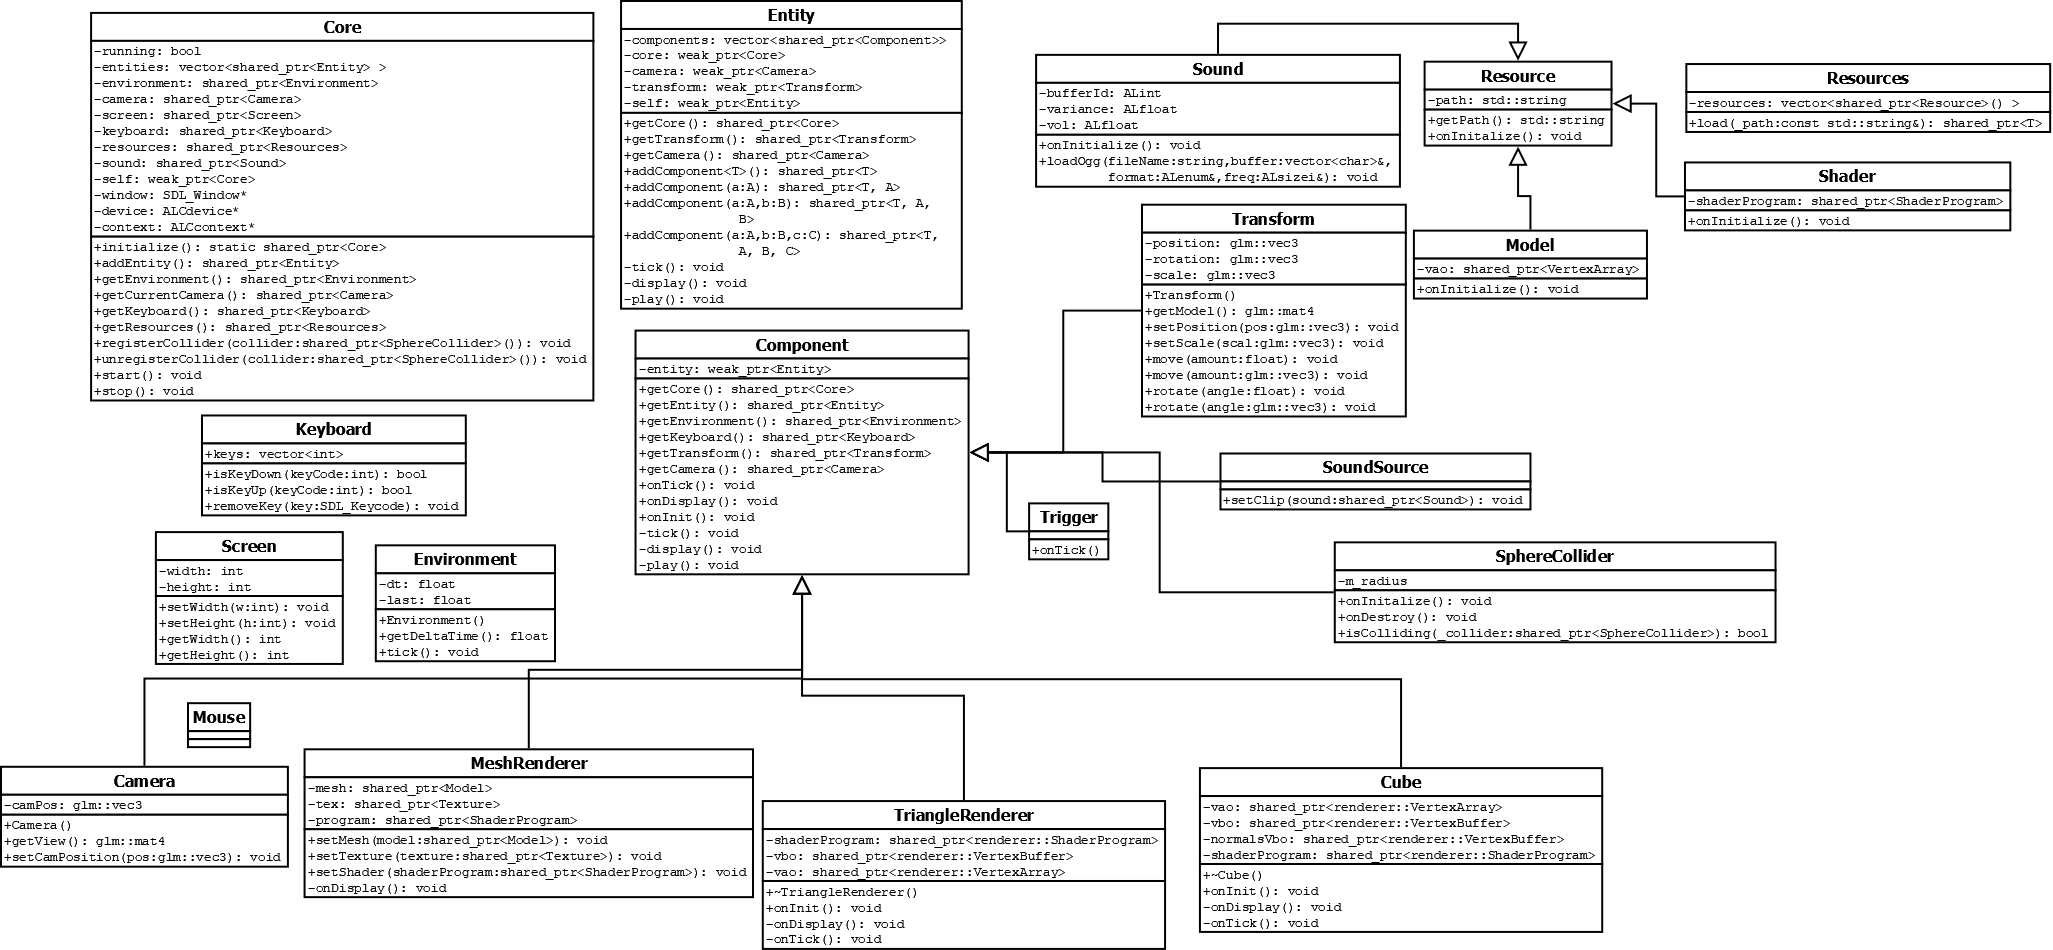
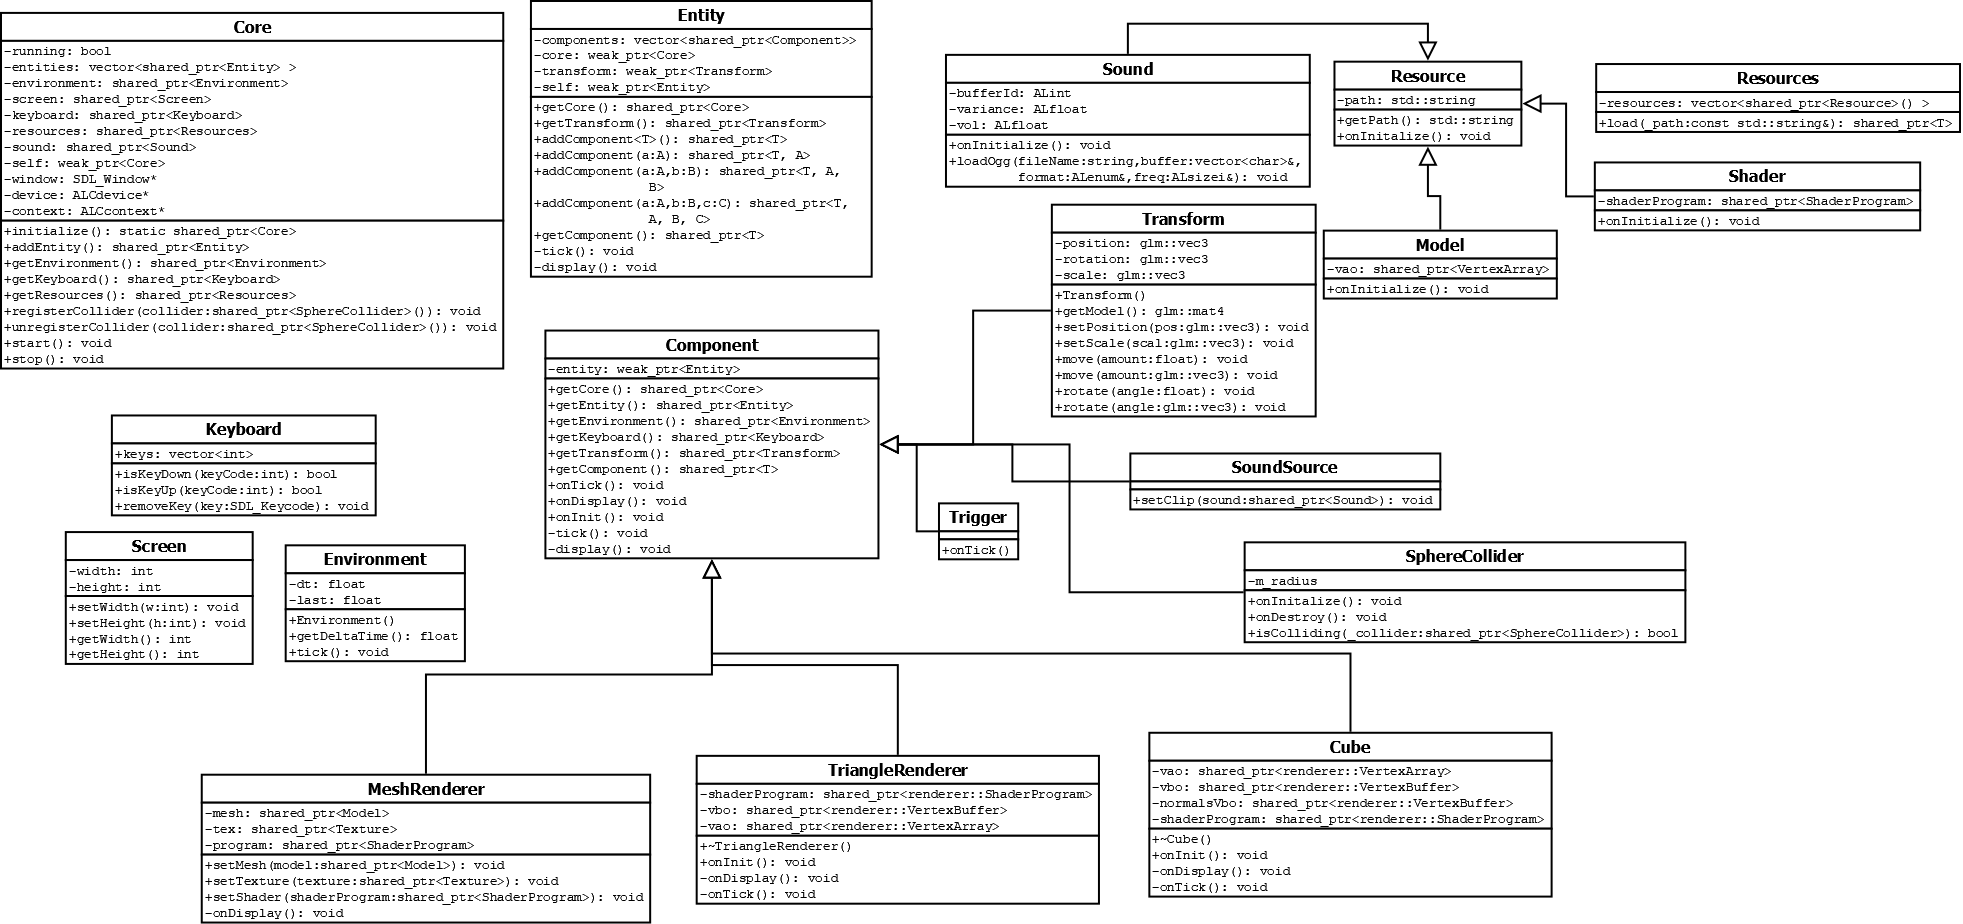
changes made

Changed region(s): [[0.0, 0.0, 1.0, 1.0]]

diff --git a/src/myengine/Transform.cpp b/src/myengine/Transform.cpp
@@ -4,33 +4,33 @@ namespace myengine
 {
 	Transform::Transform()
 	{
-		position = glm::vec3(0, 0, 0);
-		rotation = glm::vec3(0, 0, 0);
-		scale = glm::vec3(1, 1, 1);
+		position = vec3(0, 0, 0);
+		rotation = vec3(0, 0, 0);
+		scale = vec3(1, 1, 1);
 	}
 
-	glm::mat4 Transform::getModel()
+	mat4 Transform::getModel()
 	{
 		/// Returns the model identity matrix
 
 		glm::mat4 model(1.0f);
 		model = glm::translate(model, position);
-		model = glm::rotate(model, glm::radians(rotation.y), glm::vec3(0, 1, 0));
-		model = glm::rotate(model, glm::radians(rotation.x), glm::vec3(1, 0, 0));
-		model = glm::rotate(model, glm::radians(rotation.z), glm::vec3(0, 0, 1));
+		model = glm::rotate(model, radians(rotation.y), vec3(0, 1, 0));
+		model = glm::rotate(model, radians(rotation.x), vec3(1, 0, 0));
+		model = glm::rotate(model, radians(rotation.z), vec3(0, 0, 1));
 		model = glm::scale(model, scale);
 
 		return model;
 	}
 
-	void Transform::setPosition(glm::vec3 pos)
+	void Transform::setPosition(vec3 pos)
 	{
 		/// Sets the position for the model/triangle
 
 		position = pos;
 	}
 
-	void Transform::setScale(glm::vec3 scal)
+	void Transform::setScale(vec3 scal)
 	{
 		/// Sets the position for the model/triangle
 
@@ -41,11 +41,11 @@ namespace myengine
 	{
 		/// Moves the position of the model/triangle using a float value
 
-		glm::mat4 model(1.0f);
-		model = glm::rotate(model, glm::radians(rotation.y), glm::vec3(0, 1, 0));
-		model = glm::rotate(model, glm::radians(rotation.x), glm::vec3(1, 0, 0));
-		model = glm::rotate(model, glm::radians(rotation.z), glm::vec3(0, 0, 1));
-		glm::vec3 fwd = glm::vec3(model * glm::vec4(0,0,1,1));
+		mat4 model(1.0f);
+		model = glm::rotate(model, glm::radians(rotation.y), vec3(0, 1, 0));
+		model = glm::rotate(model, glm::radians(rotation.x), vec3(1, 0, 0));
+		model = glm::rotate(model, glm::radians(rotation.z), vec3(0, 0, 1));
+		glm::vec3 fwd = glm::vec3(model * vec4(0,0,1,1));
 		position += fwd * amount;
 	}
 
@@ -53,11 +53,11 @@ namespace myengine
 	{
 		/// Moves the position of the model/triangle using a glm::vec3 value
 
-		glm::mat4 model(1.0f);
-		model = glm::rotate(model, glm::radians(rotation.y), glm::vec3(0, 1, 0));
-		model = glm::rotate(model, glm::radians(rotation.x), glm::vec3(1, 0, 0));
-		model = glm::rotate(model, glm::radians(rotation.z), glm::vec3(0, 0, 1));
-		glm::vec3 fwd = glm::vec3(model * glm::vec4(amount, 1));
+		mat4 model(1.0f);
+		model = glm::rotate(model, glm::radians(rotation.y), vec3(0, 1, 0));
+		model = glm::rotate(model, glm::radians(rotation.x), vec3(1, 0, 0));
+		model = glm::rotate(model, glm::radians(rotation.z), vec3(0, 0, 1));
+		vec3 fwd = vec3(model * glm::vec4(amount, 1));
 		position += fwd;
 	}
 
@@ -68,7 +68,7 @@ namespace myengine
 		rotation.y += angle;
 	}
 
-	void Transform::rotate(glm::vec3 angle)
+	void Transform::rotate(vec3 angle)
 	{
 		/// Sets the rotation for the model/triangle using a glm::vec3 value
 

diff --git a/src/myengine/Entity.h b/src/myengine/Entity.h
@@ -54,13 +54,39 @@ namespace myengine
 			template <typename T, typename A, typename B>
 			std::shared_ptr<T> addComponent(A a, B b)
 			{
-				/// Adds a component to an entity and assigns two parameter to it
+				/// Adds a component to an entity and assigns a parameter to it
+
+				// Creates a shared pointer for the component
+				std::shared_ptr<T> component = std::make_shared<T>(a, b);
+
+				// It will then assign the shared pointer to a weak pointer
+				component->entity = self;
+
+				// Adds the shared pointer to the component vector
+				components.push_back(component);
+				component->onInit();
+
+				// It then returns the shared pointer 
+				return component;
 			}
 
 			template <typename T, typename A, typename B, typename C>
 			std::shared_ptr<T> addComponent(A a, B b, C c)
 			{
-				/// Adds a component to an entity and assigns three parameter to it
+				/// Adds a component to an entity and assigns a parameter to it
+
+				// Creates a shared pointer for the component
+				std::shared_ptr<T> component = std::make_shared<T>(a, b, c);
+
+				// It will then assign the shared pointer to a weak pointer
+				component->entity = self;
+
+				// Adds the shared pointer to the component vector
+				components.push_back(component);
+				component->onInit();
+
+				// It then returns the shared pointer 
+				return component;
 			}
 
 			template <typename T>
@@ -73,13 +99,11 @@ namespace myengine
 
 			std::shared_ptr<Core> getCore();
 			std::shared_ptr<Transform> getTransform();
-			std::shared_ptr<Camera> getCamera();
 		private:
 			friend struct myengine::Core;
 			std::vector<std::shared_ptr<Component>> components;
 			std::weak_ptr<Core> core;
 			std::weak_ptr<Transform> transform;
-			std::weak_ptr<Camera> view;
 			std::weak_ptr<Entity> self;
 			void tick();
 			void display();

diff --git a/src/myengine/PBR_Model.cpp b/src/myengine/PBR_Model.cpp
@@ -2,7 +2,7 @@
 #include "Transform.h"
 #include "Keyboard.h"
 #include "Environment.h"
-#include "Camera.h"
+#include "Math.h"
 #include "Math.h"
 
 namespace myengine
@@ -26,17 +26,17 @@ namespace myengine
 
 		// Makes the vao a shared pointer
 
-		//vao = std::make_shared<renderer::VertexArray>("../Assets/Models/teapot/teapot3.obj");
-		vao = std::make_shared<renderer::VertexArray>("../Assets/Models/monkey/monkey.obj");
-		//vao = std::make_shared<renderer::VertexArray>("../Assets/Models/Sphere/Sphere.obj");
-		//vao = std::make_shared<renderer::VertexArray>("../Assets/Models/curuthers/curuthers.obj");
+		//vao = std::make_shared<renderer::VertexArray>("Assets/Models/teapot/teapot3.obj");
+		vao = std::make_shared<renderer::VertexArray>("Assets/Models/monkey/monkey.obj");
+		//vao = std::make_shared<renderer::VertexArray>("Assets/Models/Sphere/Sphere.obj");
+		//vao = std::make_shared<renderer::VertexArray>("Assets/Models/curuthers/curuthers.obj");
 
 		// Gets vao id
 		vao->getId();
 
 		// Makes the shader program a shared pointer
-		shaderProgram = std::make_shared<renderer::ShaderProgram>("../Assets/Shaders/pbrVertShader_LearnOpenGL.txt", "../Assets/Shaders/pbrFragShader_LearnOpenGL.txt");
-		//shaderProgram = std::make_shared<renderer::ShaderProgram>("../Assets/Shaders/pbrVertShader_CodingLabs.txt", "../Assets/Shaders/pbrFragShader_CodingLabs.txt");
+		shaderProgram = std::make_shared<renderer::ShaderProgram>("Assets/Shaders/pbrVertShader_LearnOpenGL.txt", "Assets/Shaders/pbrFragShader_LearnOpenGL.txt");
+		//shaderProgram = std::make_shared<renderer::ShaderProgram>("Assets/Shaders/pbrVertShader_CodingLabs.txt", "Assets/Shaders/pbrFragShader_CodingLabs.txt");
 
 		// Sets the position for the model
 

diff --git a/src/game/main.cpp b/src/game/main.cpp
@@ -30,7 +30,7 @@ int main()
    // Adds new entity along with the player component
    std::shared_ptr<Entity> pe = core->addEntity();
    std::shared_ptr<Player> pc = pe->addComponent<Player>();
-
+   
    // Adds new entity along with the enemy component
    std::shared_ptr<Entity> ee = core->addEntity();
    std::shared_ptr<Enemy> ec = ee->addComponent<Enemy>();
@@ -46,10 +46,6 @@ int main()
    //mr->setTexture(core->getResources()->load<Texture>("Assets/Textures/Material.png"));
    mr->setShader(core->getResources()->load<Shader>("Assets/Shaders/pbrShader_LearnOpenGL"));
    mr->getTransform()->setPosition(vec3(0, 0, -10));
-
-   //std::shared_ptr<Cube> cube = entity2->addComponent<Cube>();
-   //std::shared_ptr<Cube> cube1 = entity3->addComponent<Cube>();
-   //entity3->getTransform()->setPosition(vec3(-2.5f, 0.0f, -10.0f));
 
    std::cout << entity->getCore() << std::endl;
    //std::cout << component->getCore() << std::endl;

diff --git a/src/myengine/Transform.h b/src/myengine/Transform.h
@@ -1,4 +1,5 @@
 #include "Component.h"
+#include "Math.h"
 
 #include <glm/glm.hpp>
 #include <glm/ext.hpp>
@@ -9,16 +10,16 @@ namespace myengine
 	{
 		public:
 			Transform();
-			glm::mat4 getModel();
-			void setPosition(glm::vec3 pos);
-			void setScale(glm::vec3 scal);
+			mat4 getModel();
+			void setPosition(vec3 pos);
+			void setScale(vec3 scal);
 			void move(float amount);
-			void move(glm::vec3 amount);
+			void move(vec3 amount);
 			void rotate(float angle);
-			void rotate(glm::vec3 angle);
+			void rotate(vec3 angle);
 		private:
-			glm::vec3 position;
-			glm::vec3 rotation;
-			glm::vec3 scale;
+			vec3 position;
+			vec3 rotation;
+			vec3 scale;
 	};
 }

diff --git a/src/myengine/Core.h b/src/myengine/Core.h
@@ -22,7 +22,6 @@ namespace myengine
 		static std::shared_ptr<Core> initialize();
 		std::shared_ptr<Entity> addEntity();
 		std::shared_ptr<Environment> getEnvironment();
-		std::shared_ptr<Camera> getCurrentCamera();
 		std::shared_ptr<Keyboard> getKeyboard();
 		std::shared_ptr<Resources> getResources();
 		void registerCollider(std::shared_ptr<SphereCollider>());
@@ -33,7 +32,6 @@ namespace myengine
 		bool running;
 		std::vector<std::shared_ptr<Entity> > entities;
 		std::shared_ptr<Environment> environment;
-		std::shared_ptr<Camera> camera;
 		std::shared_ptr<Screen> screen;
 		std::shared_ptr<Keyboard> keyboard;
 		std::shared_ptr<Resources> resources;

diff --git a/src/myengine/myengine.h b/src/myengine/myengine.h
@@ -3,7 +3,6 @@
 #include <myengine/Core.h>
 #include <myengine/Entity.h>
 #include <myengine/Component.h>
-#include <myengine/Camera.h>
 #include <myengine/Cube.h>
 #include <myengine/Screen.h>
 #include <myengine/SphereCollider.h>
@@ -11,6 +10,7 @@
 #include <myengine/Resource.h>
 #include <myengine/Resources.h>
 #include <myengine/Keyboard.h>
+#include <myengine/Keys.h>
 #include <myengine/Transform.h>
 #include <myengine/TriangleRenderer.h>
 #include <myengine/Trigger.h>

diff --git a/src/myengine/Component.h b/src/myengine/Component.h
@@ -8,7 +8,6 @@ namespace myengine
 	struct Environment;
 	struct Keyboard;
 	struct Transform;
-	struct Camera;
 
 	struct Component
 	{
@@ -18,7 +17,6 @@ namespace myengine
 			std::shared_ptr<Environment> getEnvironment();
 			std::shared_ptr<Keyboard> getKeyboard();
 			std::shared_ptr<Transform> getTransform();
-			std::shared_ptr<Camera> getCamera();
 			template <typename T>
 			std::shared_ptr<T> getComponent()
 			{

diff --git a/src/myengine/Entity.cpp b/src/myengine/Entity.cpp
@@ -1,7 +1,6 @@
 #include "Entity.h"
 #include "Component.h"
 #include "Transform.h"
-#include "Camera.h"
 
 namespace myengine
 {
@@ -16,14 +15,6 @@ namespace myengine
 		/// Returns the Transform
 
 		return transform.lock();
-	}
-
-	std::shared_ptr<Camera> Entity::getCamera()
-	{
-		/// Returns the Camera
-
-		//getCore()->getCurrentCamera();
-		return view.lock();
 	}
 
 	void Entity::tick()

diff --git a/src/myengine/Component.cpp b/src/myengine/Component.cpp
@@ -4,7 +4,6 @@
 #include "Environment.h"
 #include "Keyboard.h"
 #include "Transform.h"
-#include "Camera.h"
 
 namespace myengine
 {
@@ -36,12 +35,6 @@ namespace myengine
 	{
 		/// Returns the transform
 		return getEntity()->getTransform();
-	}
-
-	std::shared_ptr<Camera> Component::getCamera()
-	{
-		/// Returns the camera
-		return getEntity()->getCamera();
 	}
 
 	void Component::tick()

diff --git a/src/game/Player.h b/src/game/Player.h
@@ -1,10 +1,16 @@
 #include <myengine/myengine.h>
+#include <string>
 
 using namespace myengine;
 
 struct Player : Component
 {
-	float m_health;
-
-	void onInitialize();
+	public:
+		Player();
+		void onInitialize();
+	private:
+		std::shared_ptr<MeshRenderer> mr;
+		std::string meshPath;
+		std::string shaderPath;
+		vec3 position;
 };

diff --git a/src/myengine/MeshRenderer.cpp b/src/myengine/MeshRenderer.cpp
@@ -2,7 +2,6 @@
 #include "Model.h"
 #include "Shader.h"
 #include "Transform.h"
-#include "Camera.h"
 #include "Math.h"
 
 #include <renderer/renderer.h>
